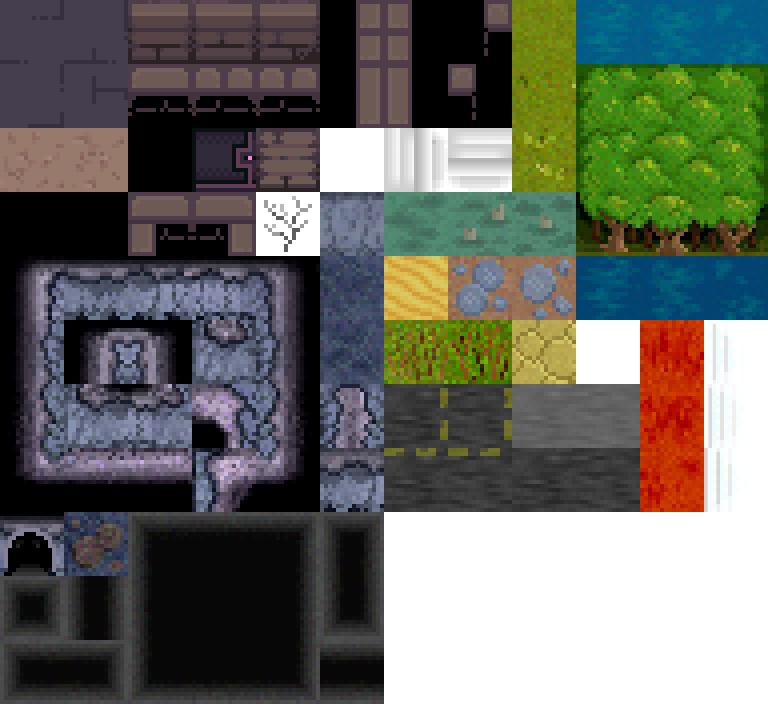
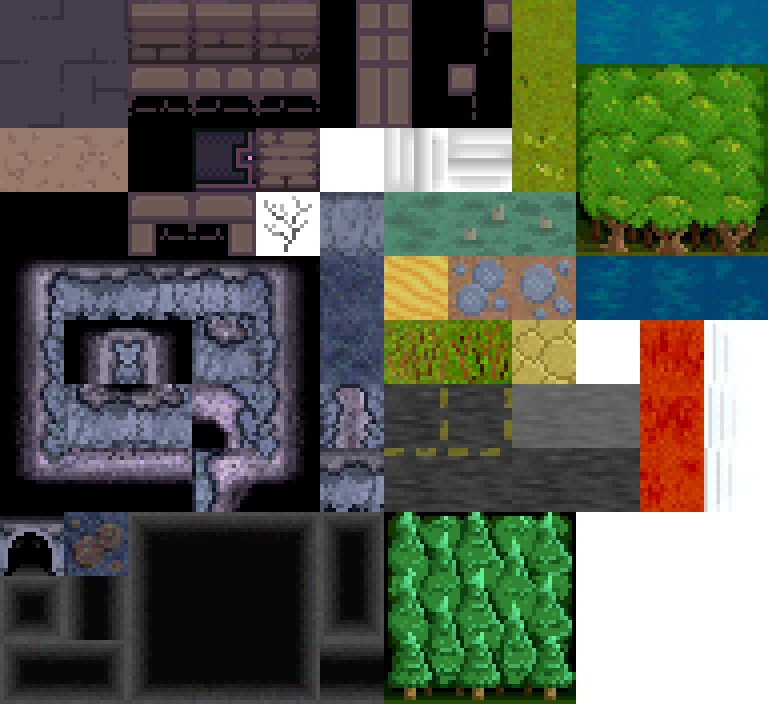
pine forest wall

Changed region(s): [[0.5, 0.7188, 0.75, 1.0]]

diff --git a/src/main/kotlin/render/tilesets/TerrainTileSet.kt b/src/main/kotlin/render/tilesets/TerrainTileSet.kt
@@ -131,6 +131,26 @@ fun TerrainTileSet() =
             add(WallTile.Slot.FULL, 1f, 10, 2)
         })
 
+        setTile(Glyph.PINE_FOREST_WALL, WallTile(this, Glyph.PINE_FOREST_WALL).apply {
+            add(WallTile.Slot.TOP, 1f, 7, 10)
+            add(WallTile.Slot.LEFTTOP, 1f, 6, 10)
+            add(WallTile.Slot.RIGHTTOP, 1f, 8, 10)
+            add(WallTile.Slot.OUTSIDE_LEFTTOP, 1f, 6, 8)
+            add(WallTile.Slot.OUTSIDE_RIGHTTOP, 1f, 8, 8)
+            add(WallTile.Slot.LEFT, 1f, 8, 9)
+            add(WallTile.Slot.RIGHT, 1f, 6, 9)
+            add(WallTile.Slot.LEFTBOTTOM, 1f, 7, 9)
+            add(WallTile.Slot.OUTSIDE_LEFTBOTTOM, 1f, 8, 8)
+            add(WallTile.Slot.BOTTOM, 1f, 7, 8)
+            add(WallTile.Slot.RIGHTBOTTOM, 1f, 7, 9)
+            add(WallTile.Slot.OUTSIDE_RIGHTBOTTOM, 1f, 6, 8)
+            add(WallTile.Slot.CAP_BOTTOM, 1f, 7, 10)
+            add(WallTile.Slot.CAP_TOP, 1f, 7, 8)
+            add(WallTile.Slot.CAP_LEFT, 1f, 6, 10)
+            add(WallTile.Slot.CAP_RIGHT, 1f, 8, 10)
+            add(WallTile.Slot.FULL, 1f, 7, 9)
+        })
+
         setTile(Glyph.CHASM, ChasmTile(this, Glyph.CHASM).apply {
             add(ChasmTile.Slot.SOLO, 1f, 0, 9)
             add(ChasmTile.Slot.LEFTCAP, 1f, 0, 10)

diff --git a/src/main/kotlin/world/gen/habitats/Habitat.kt b/src/main/kotlin/world/gen/habitats/Habitat.kt
@@ -2,13 +2,14 @@ package world.gen.habitats
 
 import kotlinx.serialization.Serializable
 import render.tilesets.Glyph
+import world.terrains.Terrain
 
 @Serializable
 sealed class Habitat(
     val mapGlyph: Glyph,
 ) {
 
-
+    open fun forestWallType(): Terrain.Type = Terrain.Type.TERRAIN_FORESTWALL
 
 }
 
@@ -20,17 +21,23 @@ object Blank : Habitat(
 @Serializable
 object Arctic : Habitat(
     Glyph.MAP_HABITAT_ARCTIC
-)
+) {
+    override fun forestWallType() = Terrain.Type.TERRAIN_PINE_FORESTWALL
+}
 
 @Serializable
 object AlpineA : Habitat(
     Glyph.MAP_HABITAT_COLD_A
-)
+) {
+    override fun forestWallType() = Terrain.Type.TERRAIN_PINE_FORESTWALL
+}
 
 @Serializable
 object AlpineB : Habitat(
     Glyph.MAP_HABITAT_COLD_B
-)
+) {
+    override fun forestWallType() = Terrain.Type.TERRAIN_PINE_FORESTWALL
+}
 
 @Serializable
 object TemperateA : Habitat(

diff --git a/src/main/kotlin/world/terrains/Terrain.kt b/src/main/kotlin/world/terrains/Terrain.kt
@@ -34,6 +34,7 @@ sealed class Terrain(
             Type.TERRAIN_BRICKWALL -> BrickWall
             Type.TERRAIN_CAVEWALL -> CaveWall
             Type.TERRAIN_FORESTWALL -> ForestWall
+            Type.TERRAIN_PINE_FORESTWALL -> PineForestWall
             Type.TERRAIN_CAVEFLOOR -> CaveFloor
             Type.TERRAIN_STONEFLOOR -> StoneFloor
             Type.TERRAIN_DIRT -> Dirt
@@ -80,6 +81,7 @@ sealed class Terrain(
         TERRAIN_BRICKWALL,
         TERRAIN_CAVEWALL,
         TERRAIN_FORESTWALL,
+        TERRAIN_PINE_FORESTWALL,
         TERRAIN_STONEFLOOR,
         TERRAIN_CAVEFLOOR,
         TERRAIN_DIRT,

diff --git a/src/main/kotlin/world/terrains/Walls.kt b/src/main/kotlin/world/terrains/Walls.kt
@@ -92,3 +92,9 @@ object ForestWall : Wall(Type.TERRAIN_FORESTWALL, Glyph.FOREST_WALL, 4f) {
     override fun isDiggable() = false
     override fun bumpMsg() = "The forest is too thick to pass this way."
 }
+
+object PineForestWall : Wall(Type.TERRAIN_PINE_FORESTWALL, Glyph.PINE_FOREST_WALL, 4f) {
+    override fun name() = "pine trees"
+    override fun isDiggable() = false
+    override fun bumpMsg() = "The forest is too thick to pass this way."
+}

diff --git a/src/main/kotlin/world/gen/cartos/WorldCarto.kt b/src/main/kotlin/world/gen/cartos/WorldCarto.kt
@@ -286,7 +286,9 @@ class WorldCarto(
 
     private fun carveBaseTerrain() {
         forEachBiome { x,y,biome ->
-            carve(x, y, 0, biome.terrainAt(x,y))
+            var t = biome.terrainAt(x,y)
+            if (t == TERRAIN_FORESTWALL) t = meta.habitat.forestWallType()
+            carve(x, y, 0, t)
         }
         // Biome-specific post-blend processing
         if (hasBlends) {

diff --git a/src/main/kotlin/render/tilesets/Glyph.kt b/src/main/kotlin/render/tilesets/Glyph.kt
@@ -9,6 +9,7 @@ enum class Glyph {
     BRICK_WALL,
     CLIFF_WALL,
     FOREST_WALL,
+    PINE_FOREST_WALL,
     CAVE_FLOOR,
     STONE_FLOOR,
     DIRT,
